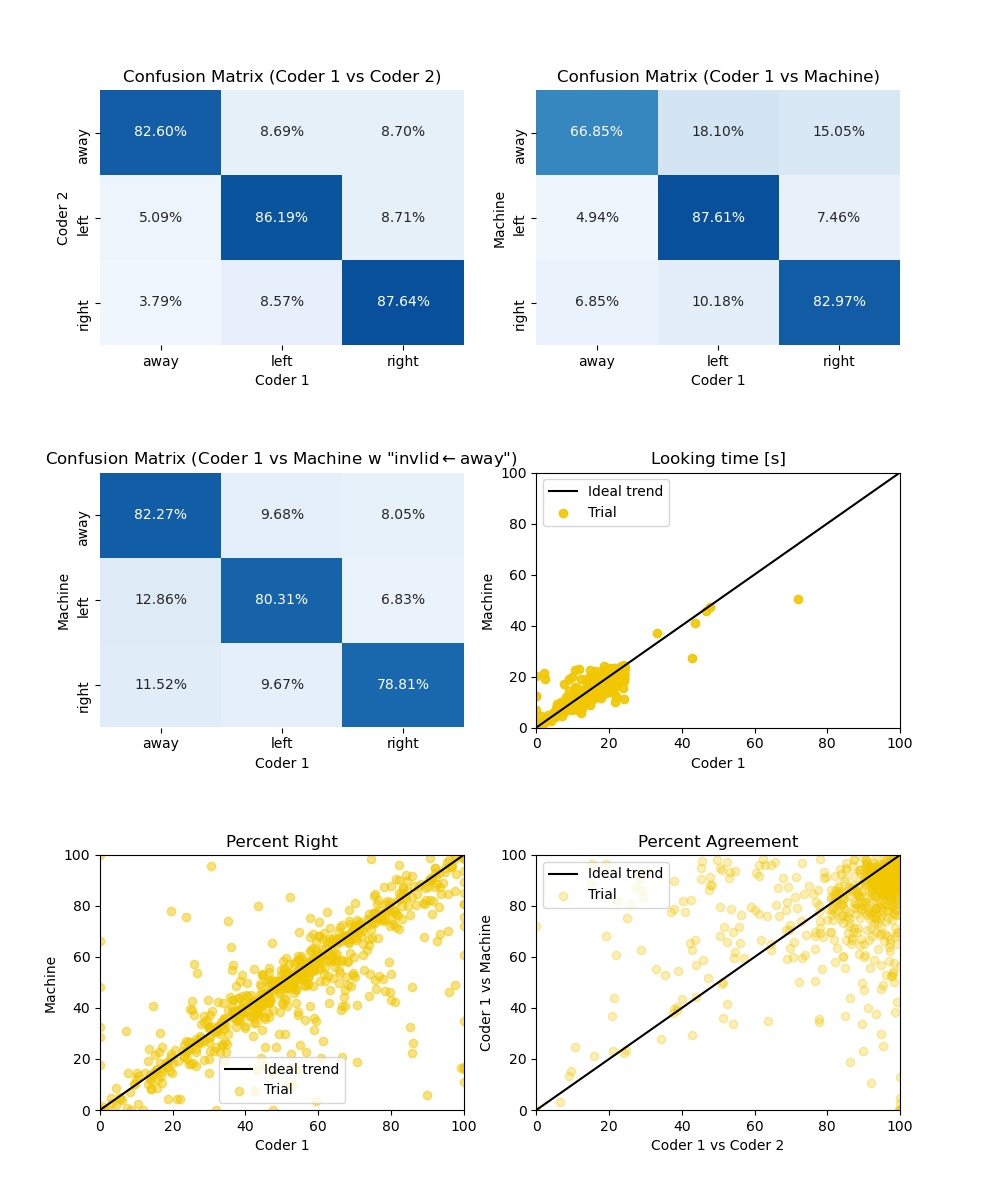
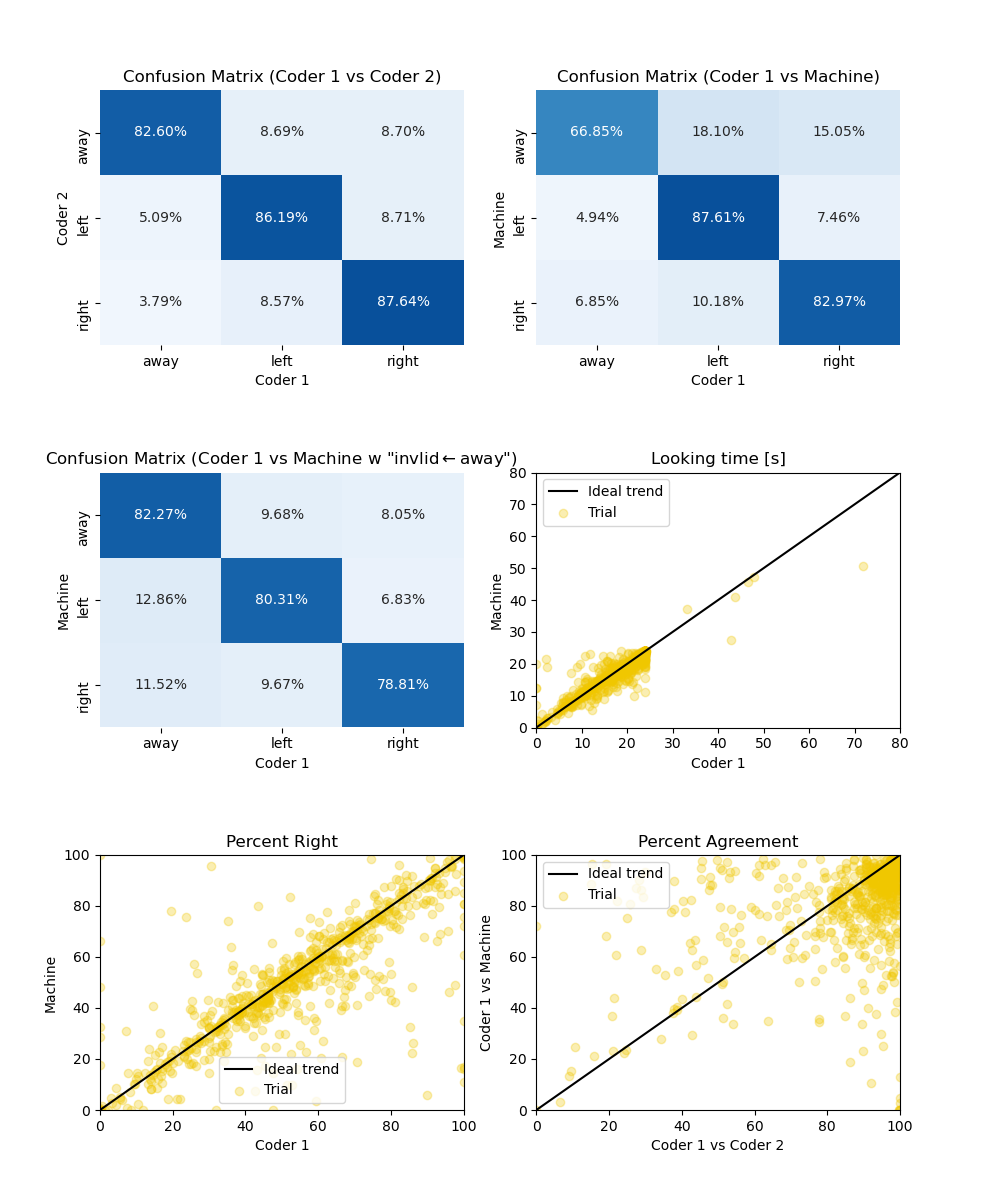
updated alpha in collage2

diff --git a/visualize.py b/visualize.py
@@ -513,15 +513,15 @@ def generate_collage_plot2(sorted_IDs, all_metrics, save_path):
     # LT plot
     lt_scatter = fig.add_subplot(3, 2, 4)
     lt_scatter.plot([0, 1], [0, 1], transform=lt_scatter.transAxes, color="black", label="Ideal trend")
-    lt_scatter.set_xlim([0, 100])
-    lt_scatter.set_ylim([0, 100])
+    lt_scatter.set_xlim([0, 80])
+    lt_scatter.set_ylim([0, 80])
     x_target = []
     y_target = []
     for ID in sorted_IDs:
         x_target += [x["looking_time_1"]/30 for x in all_metrics[ID]["human1_vs_machine_trials"]]
         y_target += [x["looking_time_2"]/30 for x in all_metrics[ID]["human1_vs_machine_trials"]]
     lt_scatter.scatter(x_target, y_target, color=label_to_color("lorange"),
-                       label='Trial', alpha=0.9)
+                       label='Trial', alpha=0.3)
     lt_scatter.set_xlabel("Coder 1")
     lt_scatter.set_ylabel("Machine")
     lt_scatter.set_title("Looking time [s]")
@@ -538,7 +538,7 @@ def generate_collage_plot2(sorted_IDs, all_metrics, save_path):
         x_target += [x["percent_r_1"] * 100 for x in all_metrics[ID]["human1_vs_machine_trials"]]
         y_target += [x["percent_r_2"] * 100 for x in all_metrics[ID]["human1_vs_machine_trials"]]
     pr_scatter.scatter(x_target, y_target, color=label_to_color("lorange"),
-                       label='Trial', alpha=0.5)
+                       label='Trial', alpha=0.3)
     pr_scatter.set_xlabel("Coder 1")
     pr_scatter.set_ylabel("Machine")
     pr_scatter.set_title("Percent Right")
